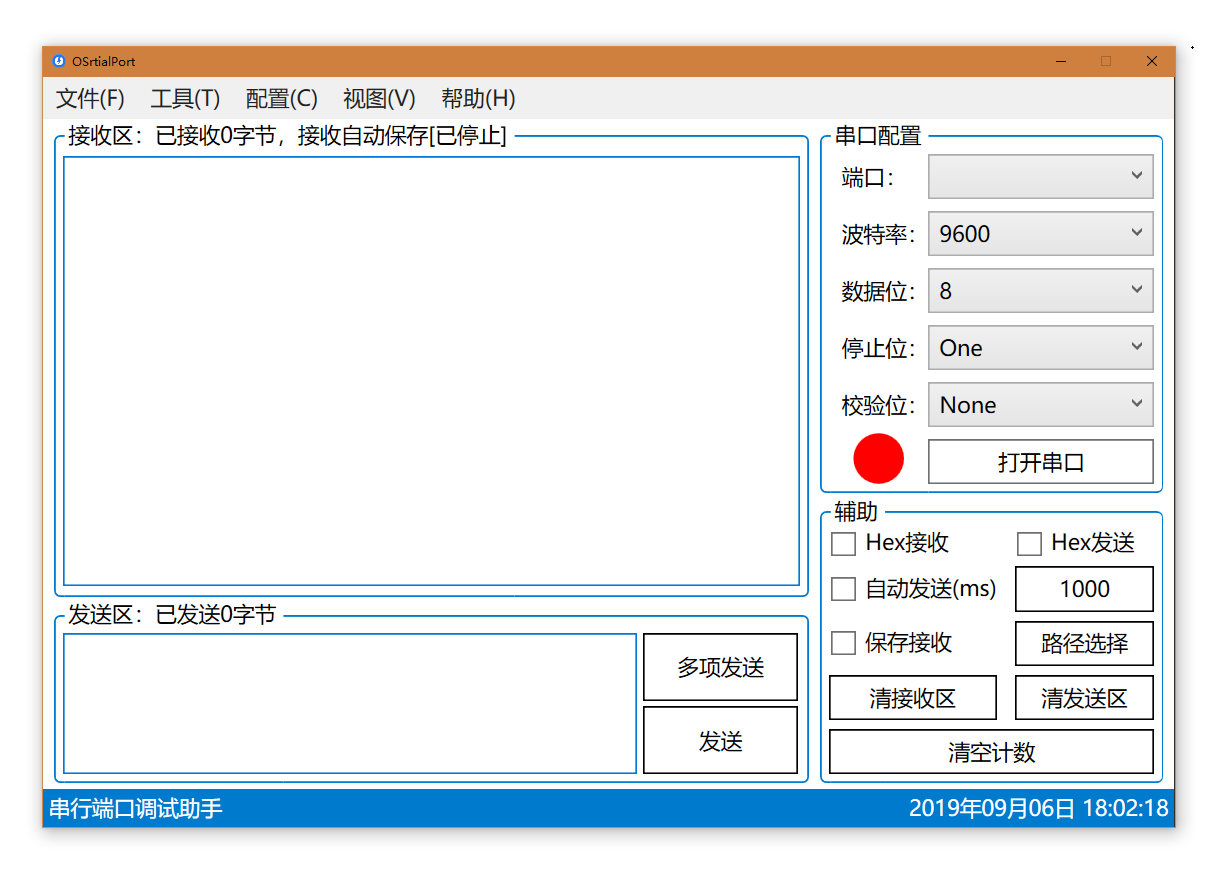
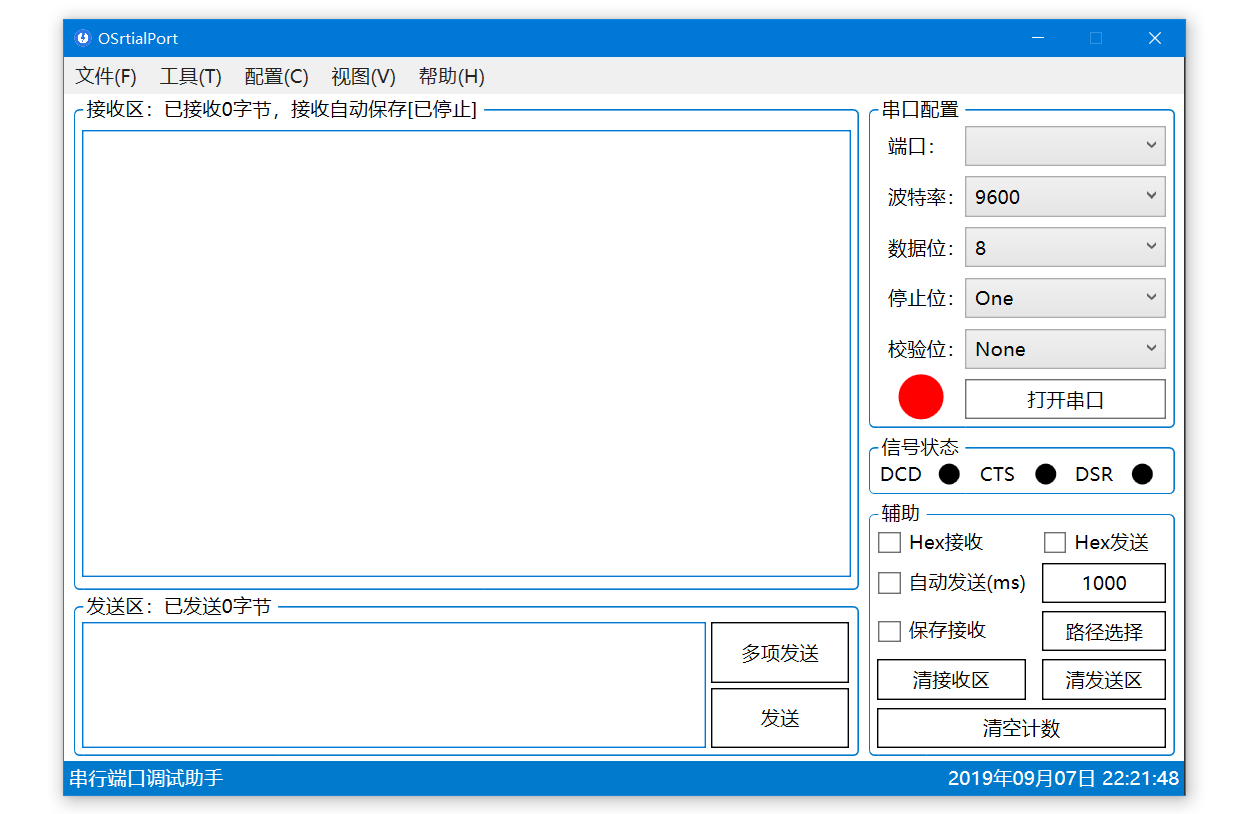
docs: 更新主界面图

Changed region(s): [[0.0308, 0.0, 0.987, 1.0]]

diff --git a/README.md b/README.md
@@ -27,7 +27,7 @@
 - [x] 更改编码方式
 - [x] 流控制（握手协议、控制协议）
 - [x] 信号控制
-- [ ] 信号检测
+- [x] 信号检测
 - [ ] 检查更新
 
 ####  串口属性
